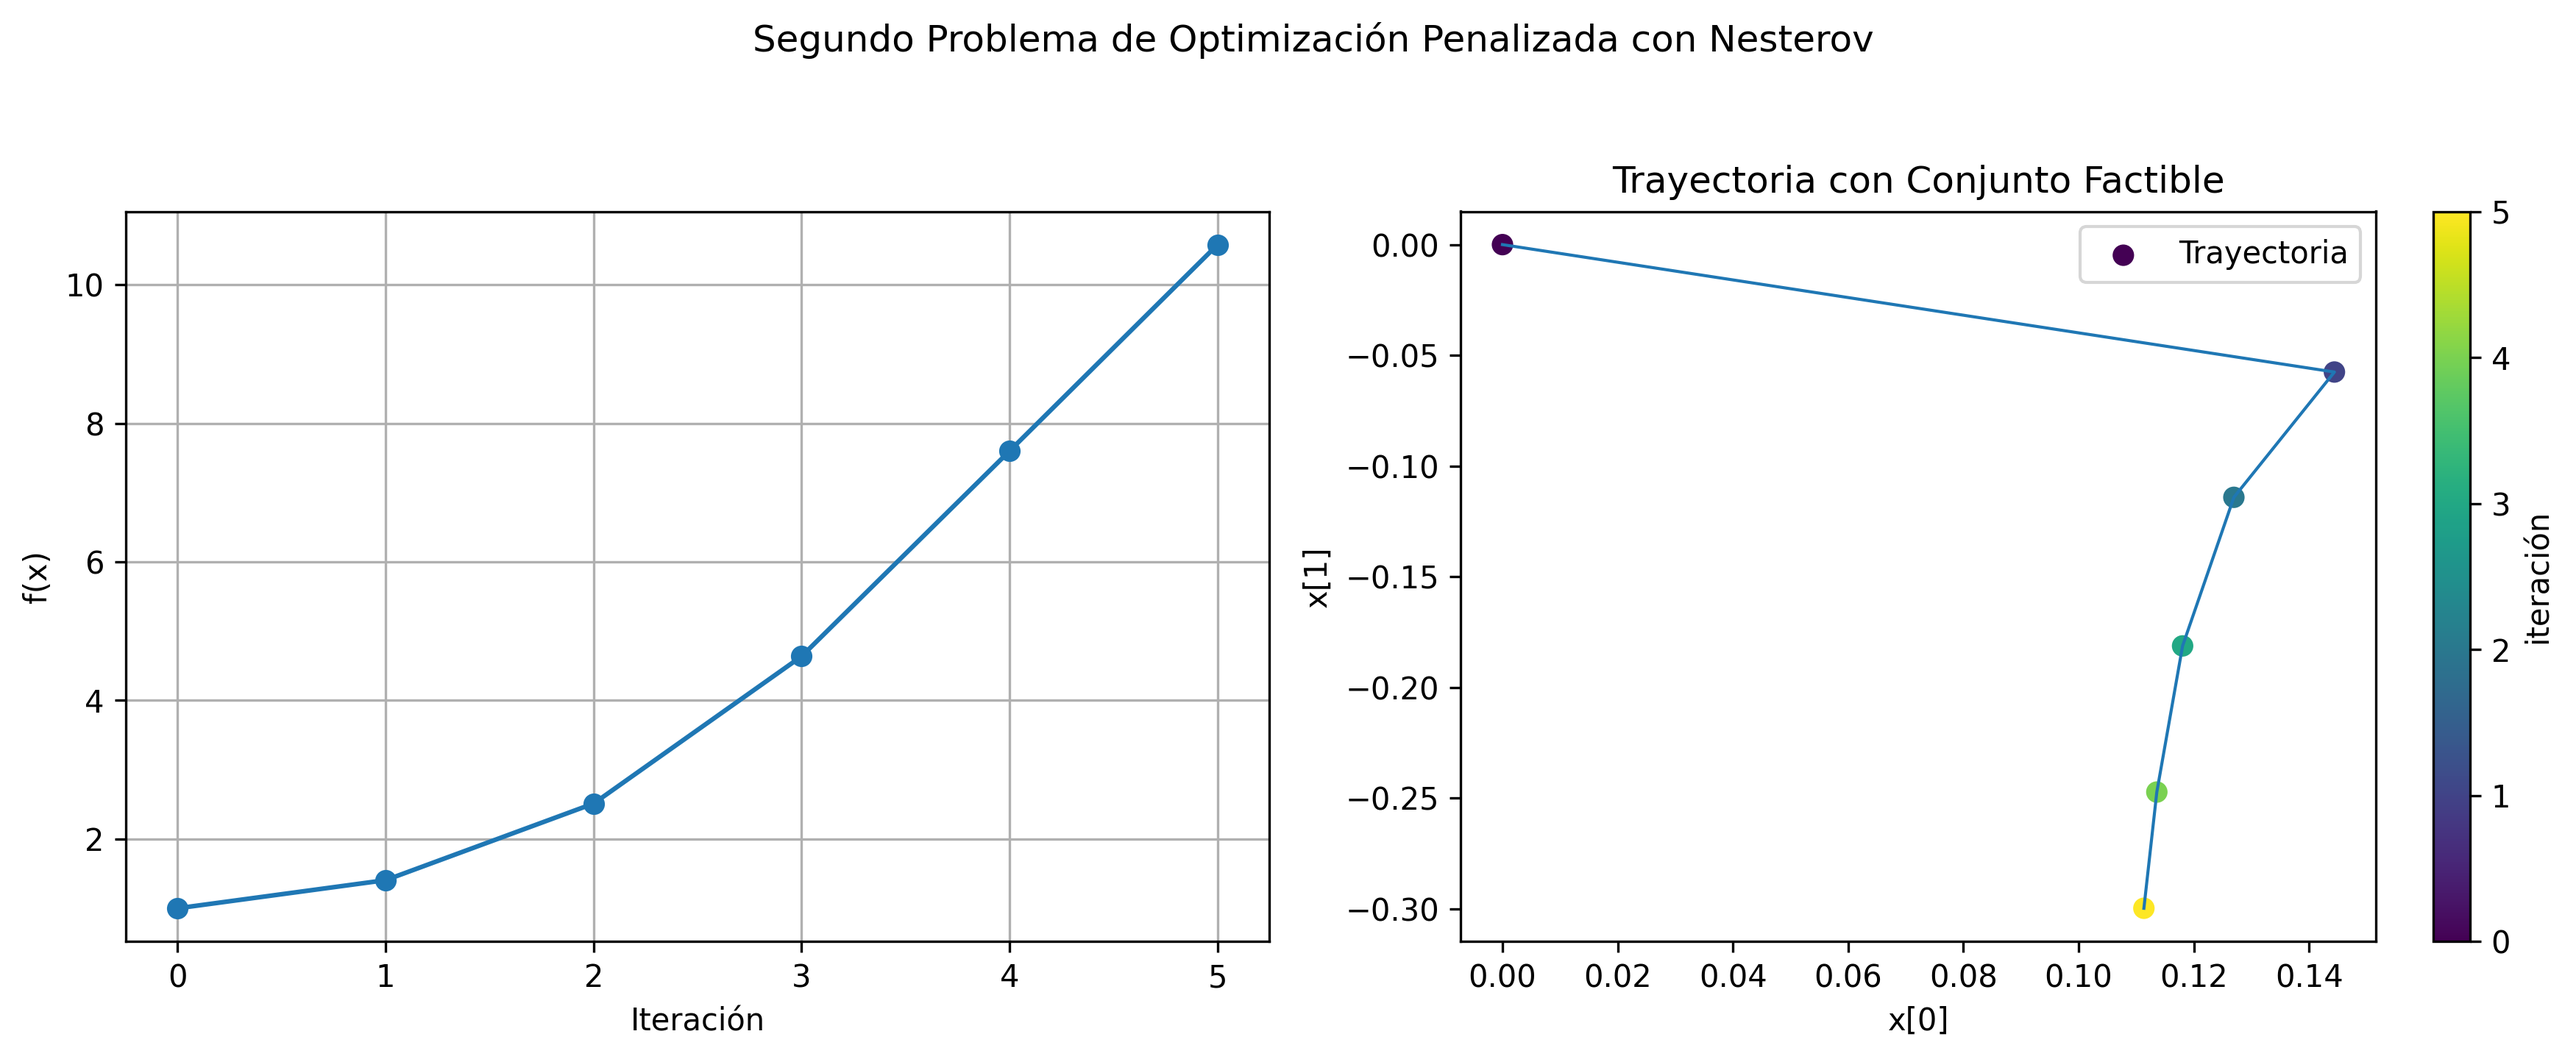
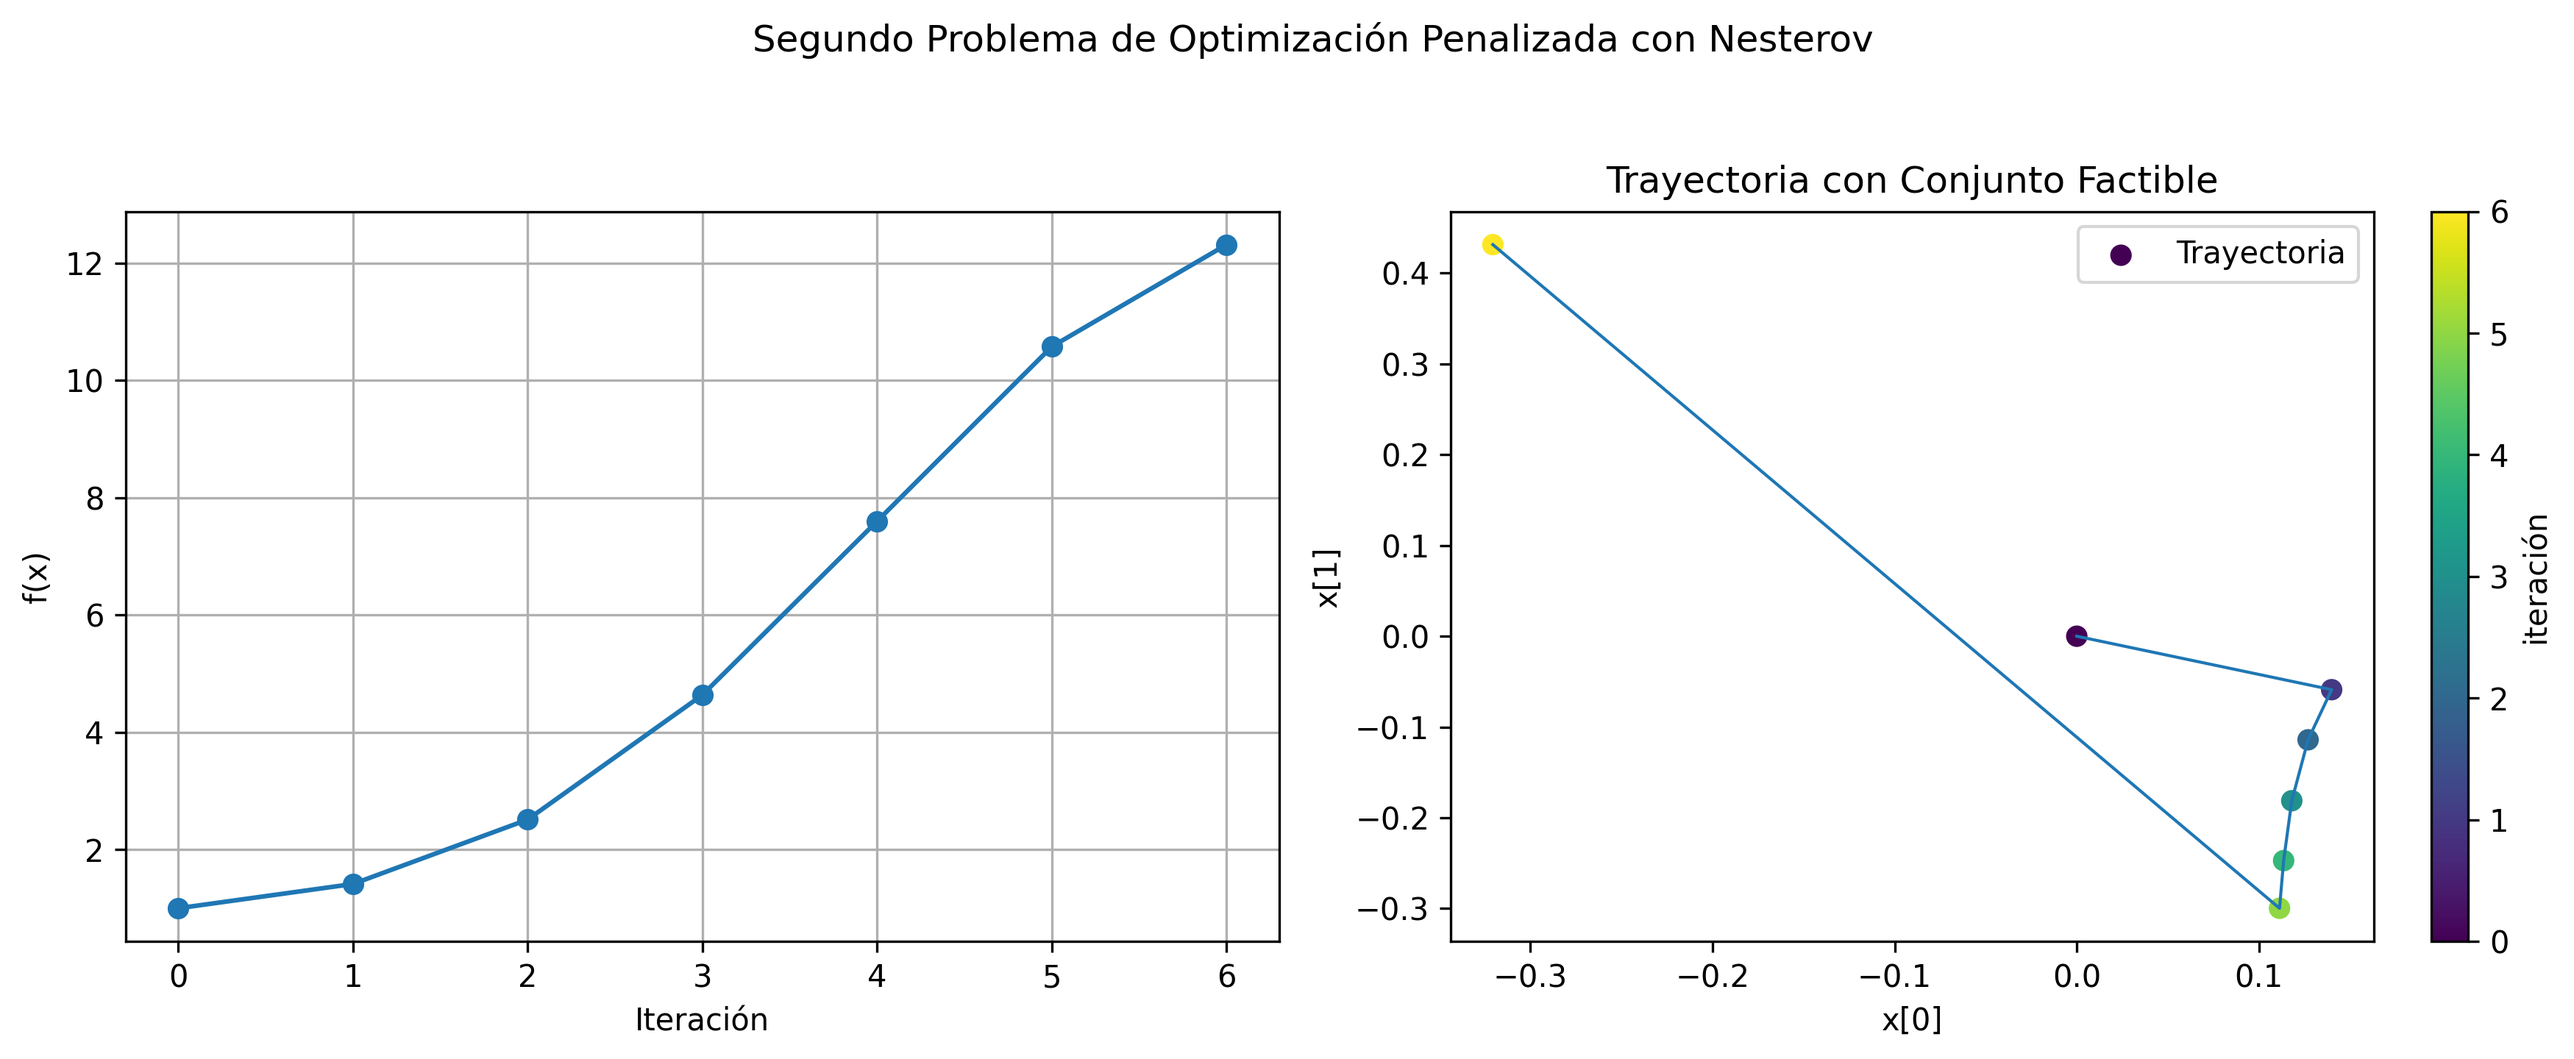
up

diff --git a/fescent/C3.py b/fescent/C3.py
@@ -71,9 +71,9 @@ def penaliced_optimization(
 
     while mu * actual_alpha(x) >= eps:
         if solver == optimize_nesterov:
-            x, _, _ = solver(x0 * 1.0, mu, alpha_solver, beta_solver, 100, problem)
+            x, _, _ = solver(x * 1.0, mu, alpha_solver, beta_solver, 100, problem)
         else:
-            x, _, _ = solver(x0 * 1.0, mu, alpha_solver, 100)
+            x, _, _ = solver(x * 1.0, mu, alpha_solver, 100)
 
         mu = beta * mu
         k += 1
@@ -201,7 +201,7 @@ eps = 1e-3
 x0 = np.array([0.0, 0.0])
 
 alpha_solver = 0.001
-beta_solver = 0.9
+beta_solver = 0.1
 
 
 def f(x: np.ndarray) -> float:
@@ -262,7 +262,7 @@ plotter(
 
 n = 1000
 
-x0 = np.ones(n)
+x0 = np.ones(n, dtype=float)
 
 
 def f(x: np.ndarray) -> np.ndarray:
@@ -271,11 +271,11 @@ def f(x: np.ndarray) -> np.ndarray:
     return np.sum(50 * (x1 - x0**2) ** 2 + (1 - x0) ** 2)
 
 
-A = np.ones((1, n))
-b = np.array([n + 1])
+A = np.zeros((1, n))
+b = np.zeros([n + 1])
 
-E = np.zeros((1, n))
-e = np.zeros(n)
+E = np.ones((1, n))
+e = np.array([n + 1])
 
 x_list, f_list, iterations = penaliced_optimization(
     f, A, b, E, e, x0, mu0, eps, beta, optimize_sgd, alpha_solver

diff --git a/fescent/src/probs.rs b/fescent/src/probs.rs
@@ -14,7 +14,7 @@ fn fn_for_nesterov_2(point: &[f64; 2]) -> f64 {
 
 fn gradf_for_nesterov_2(point: &[f64; 2]) -> [f64; 2] {
     [
-        -1.5 * (1.0 - point[0]).powf(0.5) - 400.0 * (point[1] - point[0].powi(2)) * point[0],
+        -1.5 * (1.0 - point[0]).sqrt() - 400.0 * (point[1] - point[0].powi(2)) * point[0],
         200.0 * (point[1] - point[0].powi(2)),
     ]
 }
@@ -109,6 +109,7 @@ impl ConstraintInfo<1, 1, 2> for NesterovProblem2 {
     fn ax_minus_b(&self, point: &[f64; 2]) -> [f64; 1] {
         [(point[0] + point[1]) - 5.0]
     }
+
     fn ex_minus_e(&self, point: &[f64; 2]) -> [f64; 1] {
         [(point[0] - 5.0 * point[1]) - 2.0]
     }
